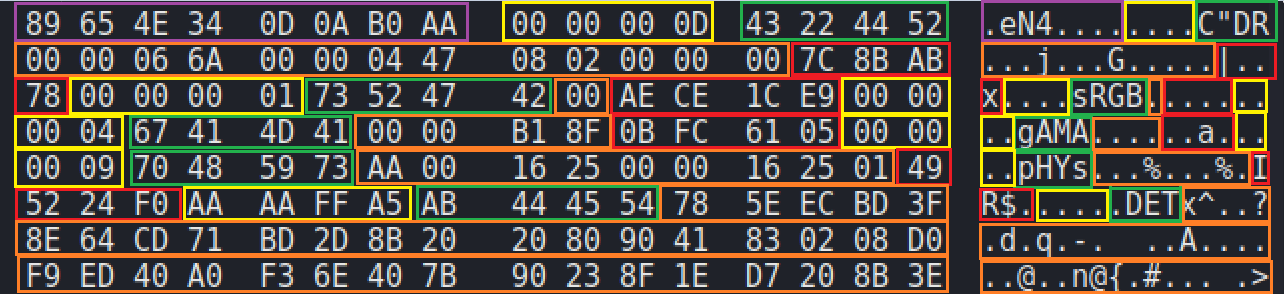
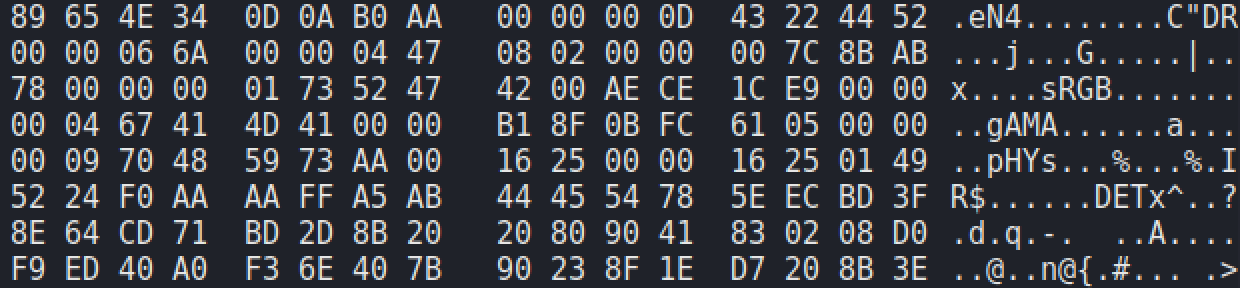
Minor modifications

diff --git a/Forensics/c0rrupt/README.md b/Forensics/c0rrupt/README.md
@@ -1,14 +1,16 @@
-In this challenge we are presented with a file that has been corrupted in some way. Running 'file' command is not helpful as the output indicates that is just 'data'. Running 'strings' tool is more helpful as header strings we are able to discover are names of chunks from PNG header:
-
 <p align="center"><img src="../../images/c0rrupt0.png" ></p>
 
-Opening 'mystery' file in hexeditor lets us inspect the header more thoroughly.
+In this challenge we are presented with a file that has been corrupted in some way. Running 'file' command is not helpful as the output indicates that is just 'data'. Running 'strings' tool is more helpful as header strings we are able to discover are names of chunks from PNG header:
 
 <p align="center"><img src="../../images/c0rrupt1.png" ></p>
 
-Looks like some knowledge about how PNG header works will be essential for this challenge. Decided to separate different parts with colors:
+Opening 'mystery' file in hexeditor lets us inspect the header more thoroughly.
 
 <p align="center"><img src="../../images/c0rrupt2.png" ></p>
+
+Looks like some knowledge about how PNG header works will be essential for this challenge. Decided to separate different parts with colors:
+
+<p align="center"><img src="../../images/c0rrupt3.png" ></p>
 
 Firstly, PNG file always starts with its' unique 8-byte PNG signature (purple color). After those 8 bytes, PNG header is divided into chunks. Every chunk contains 3 or 4 fields, depending whether chunk contains chunk data field. In our case every chunk contains 4 fields so that makes it a bit easier. 
 
@@ -22,27 +24,27 @@ d) Last field (red color) is CRC (Cyclic Redundancy Code). Based on Chunk Type a
 
 So let's start with looking into first 8-byte (PNG signature)
 
-<p align="center"><img src="../../images/c0rrupt3.png" ></p>
+<p align="center"><img src="../../images/c0rrupt4.png" ></p>
 
 That means we have to fix byte #1 #3 #6 and #7:
 
-<p align="center"><img src="../../images/c0rrupt4.png" ></p>
+<p align="center"><img src="../../images/c0rrupt5.png" ></p>
 
 Moving to the first chunk, first field of that chunk (yellow) suggests that Data Length = 0d - if we count length of Chunk Data field (orange), it is 13 so the field is correct. With second field - Chunk Type, there is clearly something wrong as we are unable to read what type it is. Wikipedia comes to save the day:
 
-<p align="center"><img src="../../images/c0rrupt5.png" ></p>
+<p align="center"><img src="../../images/c0rrupt6.png" ></p>
 
 Seems like we have to switch first 2 bytes of that field: (43 22 44 52) -> (49 48 44 52). That lets 'file' tool to successfully classify our data as PNG file:
 
-<p align="center"><img src="../../images/c0rrupt6.png" ></p>
+<p align="center"><img src="../../images/c0rrupt7.png" ></p>
 
 That fact means we can investigate the header further using pngcheck tool. It's a tool that checks png files for corruption:
 
-<p align="center"><img src="../../images/c0rrupt7.png" ></p>
+<p align="center"><img src="../../images/c0rrupt8.png" ></p>
 
 CRC error indicates that something is wrong with one of the following chunks (pHYs). This chunk holds the pixel size. It's always 9 bytes in total. First 4 bytes tell us about amount of pixels in X-axis. Second 4 bytes hold the information about amount of pixels in Y-axis. Last byte is a Unit Specifier and can only hold 2 values (0 or 1). 0 means unit is known, while 1 means that unit is metre. If we look closely, first 4 bytes are AA 00 16 25. That would mean that image width = 2852132389 pixels. Slightly too wide it you ask me. Since 4 bytes that represent image height are 00 00 16 25, lets replace AA -> 00 for our width and see whether that fixes the issue. Lets run pngcheck again:
 
-<p align="center"><img src="../../images/c0rrupt8.png" ></p>
+<p align="center"><img src="../../images/c0rrupt9.png" ></p>
 
 There is still something wrong with our header - one of Data Length field is too large. Let's list them out:
 
@@ -58,14 +60,14 @@ IDAT - AA AA FF A5 (45813006245 bytes)
 
 Means Chunk Data of IDAT is what we will look into, but firstly lets fix Chunk Type (AB 44 45 54) -> (49 44 41 54) (last green rectangle). As for Chunk Data, I have a suspicion that changing first two bytes from AA to 00, might be enough (similarly as we did with pixel width in pHYs chunk so lets confirm whether it's true or not. We can confirm it using 'binwalk' tool:
 
-<p align="center"><img src="../../images/c0rrupt9.png" ></p>
+<p align="center"><img src="../../images/c0rrupt10.png" ></p>
 
 Output tells us that Chunk Type field for IDAT chunks start at offset 0x57, 0x10008, 0x20008 and 0x30008. Knowing that we can calculate Data Length. Prepared simple graphics to make it easier:
 
-<p align="center"><img src="../../images/c0rrupt10.png" ></p>
+<p align="center"><img src="../../images/c0rrupt11.png" ></p>
 
 0x10008 - 0x57 - (0x4 * 3) = 0xFFA5
 
 Turns out my predictions were accurate and changing first two bytes (AA AA -> 00 00) for IDAT Data Length is what we should do. Now file is fixed and can be opened with any image viewer to retrieve the flag. Decided also to automate the entire process and all that can be done by just running script.py and get the flag:
 
-<p align="center"><img src="../../images/c0rrupt11.png" ></p>
+<p align="center"><img src="../../images/c0rrupt12.png" ></p>

diff --git a/Forensics/Wireshark_doo_dooo_do_doo.../README.md b/Forensics/Wireshark_doo_dooo_do_doo.../README.md
@@ -1,11 +1,13 @@
-In this challenge, we are provided with .pcapng file that contains a record of captured packets that have been sent through the network over certain amount of time. Most popular software to analyze that type of files is Wireshark. If that software is installed we can invoke file directly by running 'Wireshark \<filename\>' in terminal or just opening Wireshark itself and then choosing pcap/pcapng file we want to analyze (Wireshark is extremely powerful tool and can do much more, e.g. the reverse, you can capture the packets in real time and analyze the traffic or export that capture to pcap/pcapng to analyze them further later). One thing I'm trying to do as much as I can while solving picoCTF challenges is using regular expressions to check for low-hanging fruits and this time it was the correct approach. After loading our .pcapng file, we can use Find Packet from the Edit menu. That way we can filter contents of every packet. Wireshark also provides users with an option to search through packets using Regular Expressions. To ensure that we don't skip the flag even if it was previously encrypted, the pattern I used was: [a-zA-Z0-9]{7}\{[a-zA-Z0-9_]{5,50}\}
-
 <p align="center"><img src="../../images/Wireshark_do0.png" ></p>
 
-And what do you know, we have a decent odds that we have just found the flag. Since it's encrypted, we can throw it into CyberChef and try checking for most common cyphers. Seems like this time it was just a simple ROT13 cypher. There is our flag:
+In this challenge, we are provided with .pcapng file that contains a record of captured packets that have been sent through the network over certain amount of time. Most popular software to analyze that type of files is Wireshark. If that software is installed we can invoke file directly by running 'Wireshark \<filename\>' in terminal or just opening Wireshark itself and then choosing pcap/pcapng file we want to analyze (Wireshark is extremely powerful tool and can do much more, e.g. the reverse, you can capture the packets in real time and analyze the traffic or export that capture to pcap/pcapng to analyze them further later). One thing I'm trying to do as much as I can while solving picoCTF challenges is using regular expressions to check for low-hanging fruits and this time it was the correct approach. After loading our .pcapng file, we can use Find Packet from the Edit menu. That way we can filter contents of every packet. Wireshark also provides users with an option to search through packets using Regular Expressions. To ensure that we don't skip the flag even if it was previously encrypted, the pattern I used was: [a-zA-Z0-9]{7}\{[a-zA-Z0-9_]{5,50}\}
 
 <p align="center"><img src="../../images/Wireshark_do1.png" ></p>
 
-Managed to automate that entire process by using a simple shell one-liner:
+And what do you know, we have a decent odds that we have just found the flag. Since it's encrypted, we can throw it into CyberChef and try checking for most common cyphers. Seems like this time it was just a simple ROT13 cypher. There is our flag:
 
 <p align="center"><img src="../../images/Wireshark_do2.png" ></p>
+
+Managed to automate that entire process by using a simple shell one-liner:
+
+<p align="center"><img src="../../images/Wireshark_do3.png" ></p>

diff --git a/Forensics/like1000/README.md b/Forensics/like1000/README.md
@@ -1,3 +1,5 @@
+  <p align="center"><img src="../../images/like1000_0.png" ></p>
+
 A simple challenge that can be time consuming unless you decide to write code that will do all the extracting for you. Initial 1000.tar archive contains 999.tar archive which contains 998.tar archive and so on, meaning we have 1000 archives to extract. Hint suggested writing a script so that's exactly what I did. It's just a simple for-loop, where every loop assigns name of the archive to variable $f (decrementing every loop), extracts contents of archive using 'tar xf <filename>' and removes the archive we no longer need. At the end we also delete filler.txt file that was initially extracted from 1000.tar archive and we are left with flag.png:
 
-  <p align="center"><img src="../../images/like1000.png" ></p>
+<p align="center"><img src="../../images/like1000_1.png" ></p>

diff --git a/Cryptography/Mod_26/README.md b/Cryptography/Mod_26/README.md
@@ -1,5 +1,5 @@
-<p align="center"><img src="../../images/Mod_26a0.png" ></p>
+<p align="center"><img src="../../images/Mod_26_0.png" ></p>
 
 Solving this challenge could be as easy as pasting encrypted string into one of the free online ROT13 decrypters (I particulary enjoy using CyberChef myself) but I decided to have some more fun writing my own ROT decypter that allows string to be shifted by any number. Good enough to solve this challenge but has not been tested thoroughly so as long as you don't go out of your way to break it, I hope it's going to be sufficient ^^
 
-<p align="center"><img src="../../images/Mod_26a1.png" ></p>
+<p align="center"><img src="../../images/Mod_26_1.png" ></p>

diff --git a/Forensics/information/README.md b/Forensics/information/README.md
@@ -1,3 +1,5 @@
+<p align="center"><img src="../../images/information0.png" ></p>
+
 This challenge is about finding information in metadata of image. Whenever we are provided with an image, Exiftool is a tool I'm using right away, it will be really handy for this challenge overall and required if you want to use my script. Firstly we use it with just one argument - our file, to examine it's metadata.
 
 <p align="center"><img src="../../images/information1.png" ></p>
